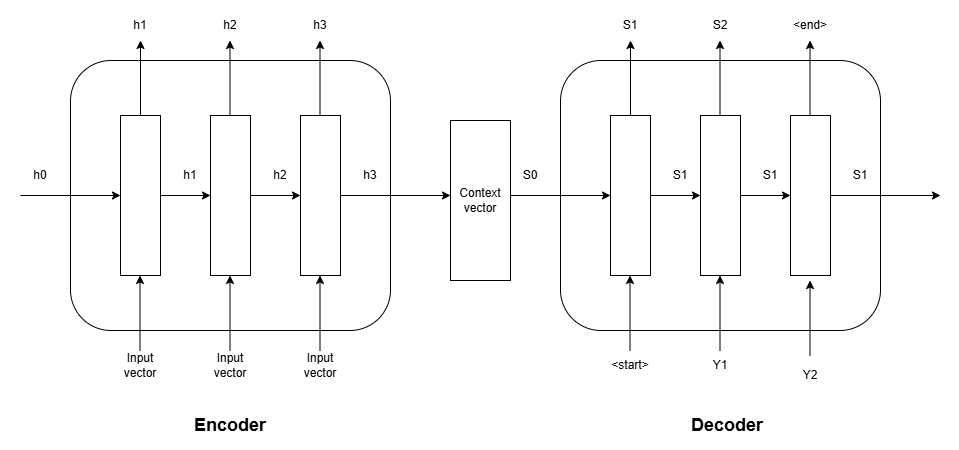
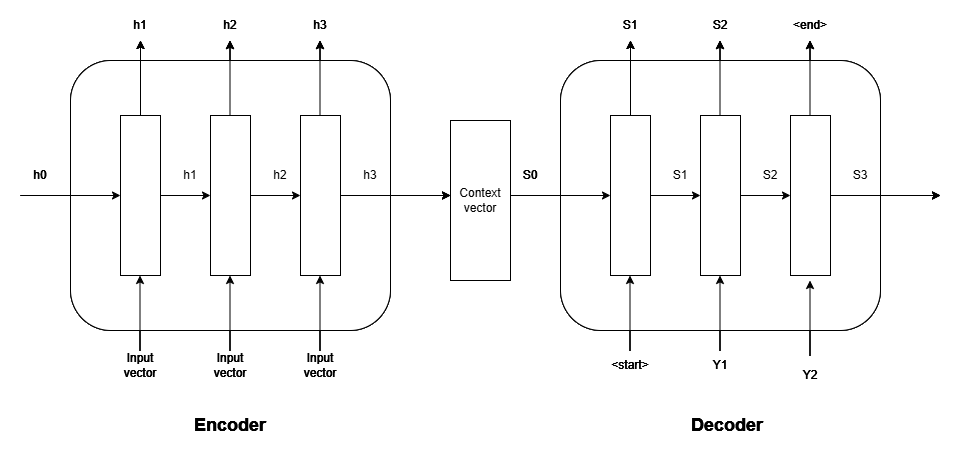
done with Attention mechanism

diff --git a/DeepLearning/Seq2Seq.md b/DeepLearning/Seq2Seq.md
@@ -364,7 +364,15 @@ In case of attention we get three input in decoder for decoder to generate the o
 
 - $S_{i-1}$ -> predicted output of previous timestamp
 - $Y_{i-1}$ -> Original output of previous timestamp
-- $C_i$ -> think of it as attention input
+- $C_i$ -> tells which part of the input sequence is important for generating output
+
+### How does the LSTM handle second input vector $C_i$?
+
+The decoder combines $Y_{i-1}$ and $C_i$ into a single input vector:
+
+$$x_i = [Y_{i-1},  C_i]$$
+
+LSTM actually receive this $x_i$ vector 
 
 ### What is $C_i$
 
@@ -372,8 +380,7 @@ $C_i$ is a weighted combination of all encoder hidden states. It summarizes the 
 
 <img src="./Images/Ci-network.png" style="width:300px">
 
-here:
-- $\alpha_{ij}$ = is like a weight between nodes $C_i$ and $h_j$, it tells how much important $h_j$ is for generating the output in timestamp $i$
+>$\alpha_{ij}$ = is like a weight between nodes $C_i$ and $h_j$, it tells how much important $h_j$ is for generating the output in timestamp $i$
 
 #### Mathematically
 
@@ -387,8 +394,53 @@ $$C_i = \sum_{j=1}^T \alpha_{ij}h_j$$
 
 where:
 
-- $h_j$ = encoder hidden state at input position j,
+- $h_j$ = encoder hidden state for timestamp j,
 - $\alpha_{ij}$ = attention weight telling how much the decoder at step i should focus on encoder state $h_j$,
+
+
+### What is $\alpha$
+In the attention mechanism, α usually represents the attention weight (or alignment score after normalization). It tells the model how much importance to assign to each encoder state when producing an output.
+
+$\alpha$ is depend on two things;
+1. encoder state $h_j$
+2. decoder state from previous timestamp $S_{i-1}$
+
+> think of it like:\
+> given the outputs up till now $(S_{i-1})$ how much encoder state $h_j$ is important for next output i.e, $S_i$
+
+Mathematically we can say that:
+
+$$\alpha_{ij} = f(h_j, S_{i-1})$$
+
+here:
+- $i$ = current timestamp in decoder
+- $j$ = timestamp of encoder state
+
+In real case its just a ANN that takes $h_j$ and $S_{i-1}$ as an input and return $\alpha_{ij}$, and as for tanning its happen while we train the encoder decoder model where this ANN also get train along with the rest of the model 
+
+#### Example
+
+<img src="./Images/Alpha-calculation.png" style="width:400px">
+
+here we want to calculate the $C2$ for with we need $\alpha_{21}$, $\alpha_{22}$ and $\alpha_{23}$ and according to this image
+- ANN input:
+    - $S_1$
+    - $h_1$
+- ANN output
+    - $\alpha_{21}$
+
+we use same ANN to compute the value of $\alpha_{22}$ and $\alpha_{23}$ as follow:
+
+- input = $S_1$, $h_2$ -> output = $\alpha_{22}$
+- input = $S_1$, $h_3$ -> output = $\alpha_{23}$
+
+Now since we have all values of $\alpha_{ij}$ we can calculate the $C2$ using formula:
+
+$$C_i = \sum_{j=1}^T \alpha_{ij}h_j$$
+
+where:
+
+- $h_j$ = encoder hidden state for timestamp j,
 
 
 